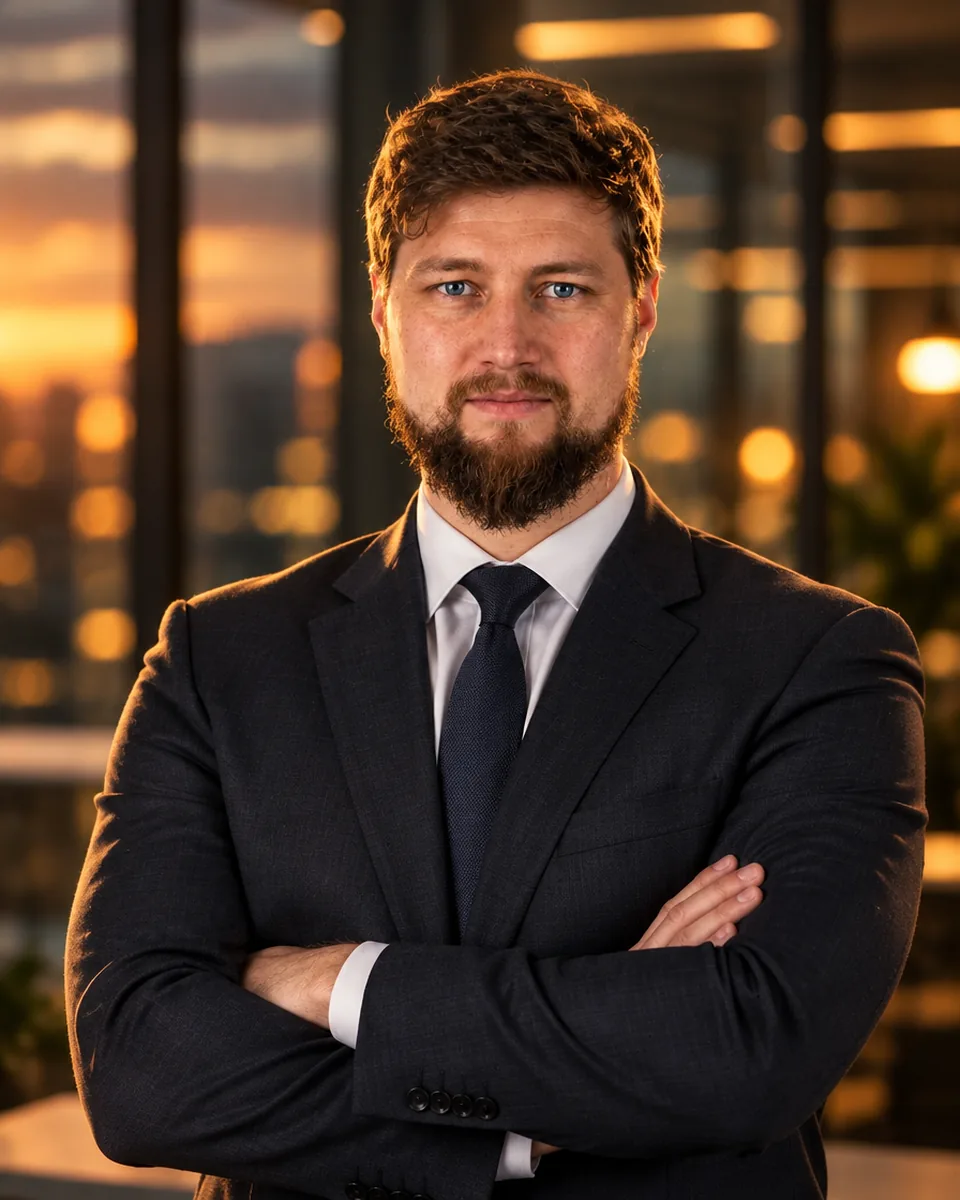
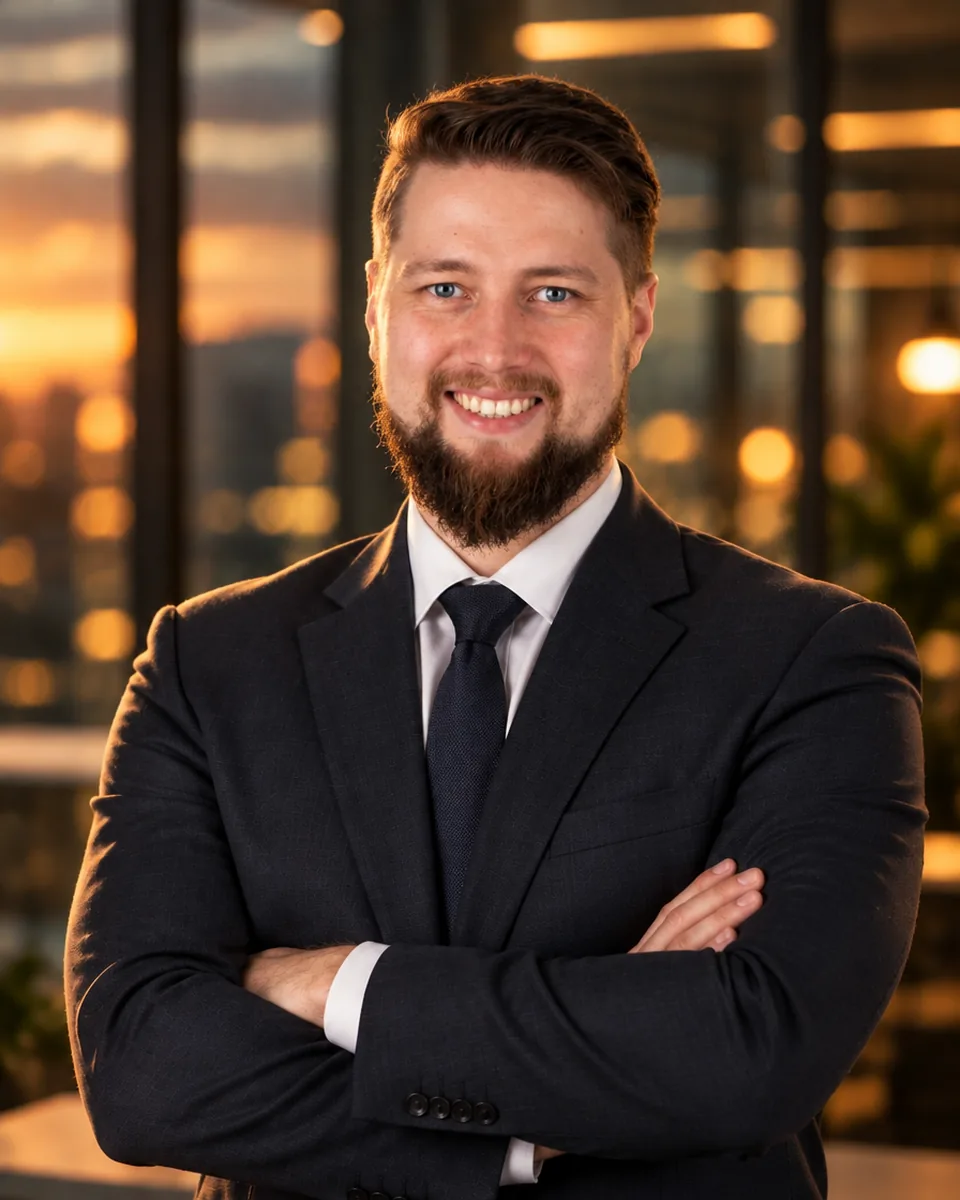
Suosittelija Christian: aidompi edustuskuva oikeiden kuvien pohjalta
Higgsfield: kasvot, hymy, parta ja hiustyyli hänen omista valokuvistaan; luonnollinen ihon ja kankaan
rakenne ilman tekoälysileyttä. Puku, kädet ristissä ja toimistotausta ennallaan.

diff --git a/src/content/fi.ts b/src/content/fi.ts
@@ -798,7 +798,7 @@ export const fi: Content = {
           role: 'Yksikön päällikkö',
           org: '[Organisaatio]',
           quote: 'Laikku osasi [taidon] – [esimerkki siitä, miten se näkyi].',
-          photo: { ...images.refChristian, alt: 'Christian tummassa puvussa kädet ristissä toimiston iltavalossa' },
+          photo: { ...images.refChristian, alt: 'Christian hymyilee tummassa puvussa kädet ristissä toimiston iltavalossa' },
           draft: true,
         },
         {

diff --git a/src/content/en.ts b/src/content/en.ts
@@ -787,7 +787,7 @@ export const en: Content = {
           role: 'Head of Unit',
           org: '[Organisation]',
           quote: 'Laikku knew [the skill] – [an example of how it showed].',
-          photo: { ...images.refChristian, alt: 'Christian in a dark suit with arms crossed in an office at dusk' },
+          photo: { ...images.refChristian, alt: 'Christian smiling in a dark suit with arms crossed in an office at dusk' },
           draft: true,
         },
         {
